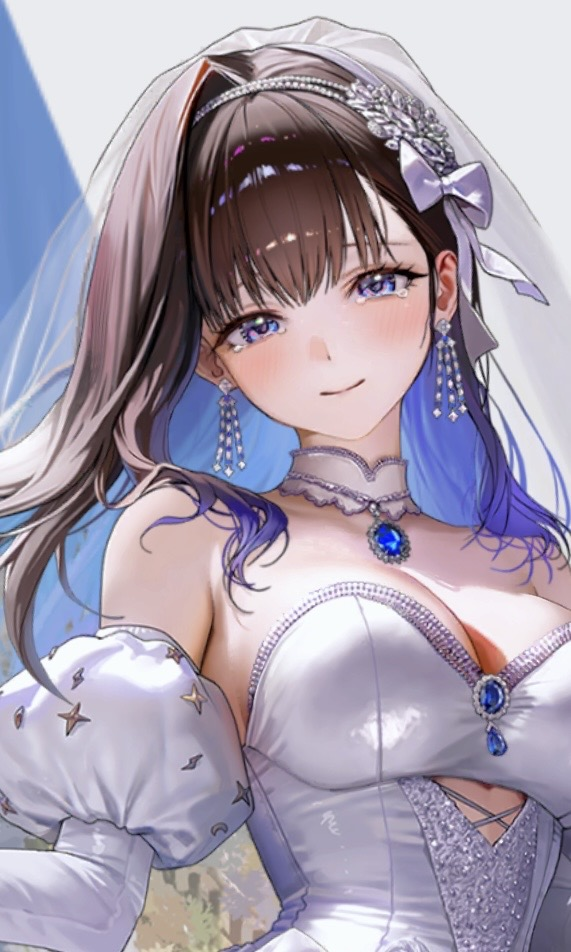
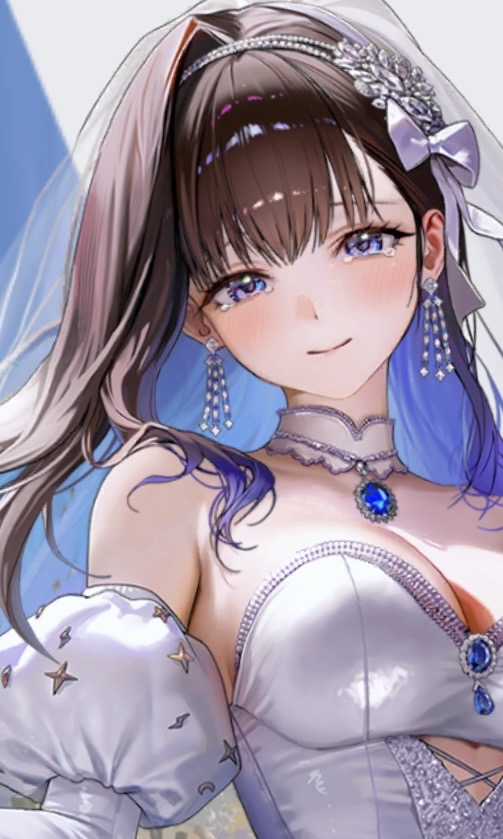
紅蓮：神殺・マリアン：クイーンのスロット用画像を差し替え
Claude-Session: https://claude.ai/code/session_014qY3KiMv9eBXCmLh6yXGPV

diff --git a/指示書.md b/指示書.md
@@ -337,6 +337,7 @@ NIKKEのキャラクターのバフ情報を管理・表示するチェッカー
 -----
 -----
 ## 現状サマリー
+- **紅蓮：神殺・マリアン：クイーンのスロット用画像を差し替え（2026-10-30）**：huren_gs_slot.jpg・marian_queen_slot.jpg（3:5・加工なし・同一ファイル名で上書き・characters.json無変更）。詳細は作業履歴.mdの同日ログ参照
 - **ニケ選択の検索欄に×ボタン（2026-10-30）**：文字が入っている時だけ右端に×が出て、タップで入力を消す（フォーカスは検索欄に戻る）。詳細は作業履歴.mdの同日ログ参照
 - **ラプンツェル：サンクチュアリ新規実装（2026-10-30、通算196体目、id: rapunzel_sc）**：B2・支援型・RL・灼熱・ピルグリム・ゴッデス。party：回復3.9%（S1・FC攻撃時）・防御力42.24%（S2・ゴッデスブレッシング・常時ON・条件付）・攻撃力34.84%（BS）。self：攻撃ダメ27.45%・攻撃力29.17%（FB発動時）・共用バリア7.39%・チャージ速度増加/減少効果無効。「臨戦状態の味方」へのFB発動時効果（攻撃ダメ27.45%・攻撃力29.17%）は**新規フラグsenUser**（紅蓮：神殺・マリアン：クイーンのみ）と**新規target構文sen:true**で判定。BSの戦闘不能3機以上の効果（蘇生・攻撃力101.37%・防御力221.76%・ナノ粒子消耗の防御力10%・BSクールタイム+40秒）は1つの同期スイッチ（syncGroup:rapunzelScNano・初期OFF）で、ONにすると全体攻撃力34.84%が自動でOFF（排他・自分のカード内のみ）。casterの行にもexclusiveGroupを反映（index.html。既存キャラへの影響なしを確認）。短縮名「ラプンツェル：SC」。画像は未用意。詳細は作業履歴.mdの同日ログ参照
 - **干渉エフェクト画像ごとの縦位置（posY）を新設（2026-10-30）**：cardBgGlitchの要素を{url,posY}にできる（0＝上端基準〜100＝下端基準）。マリアン：クイーンの5枚に設定（60／なし／0／100／100）。詳細は作業履歴.mdの同日ログ参照
